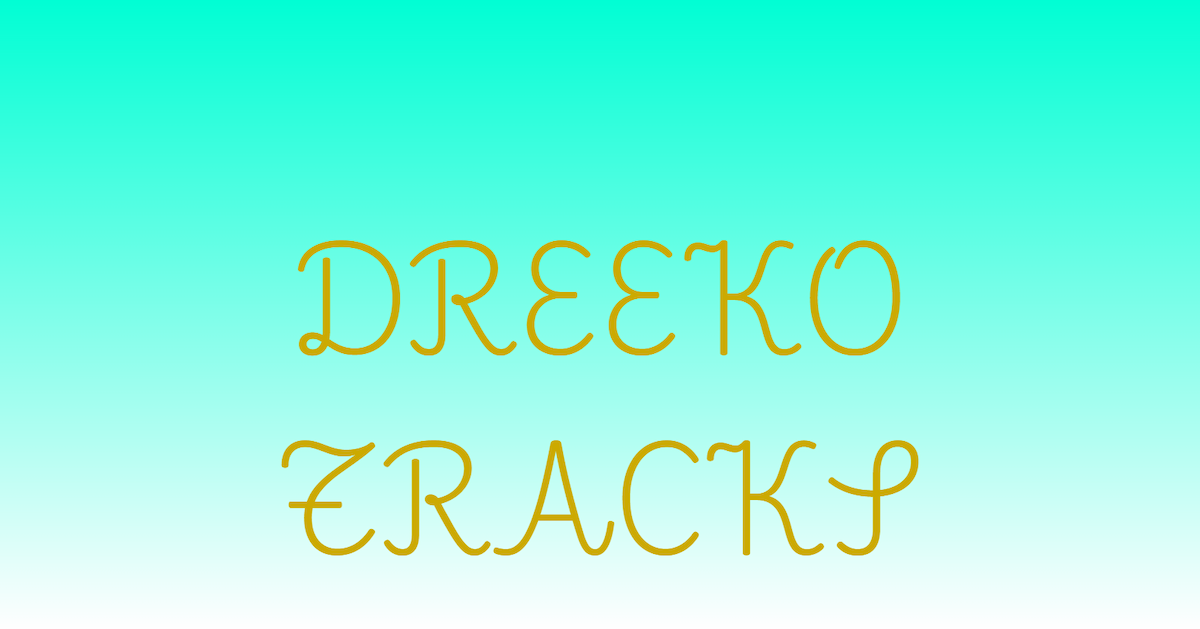
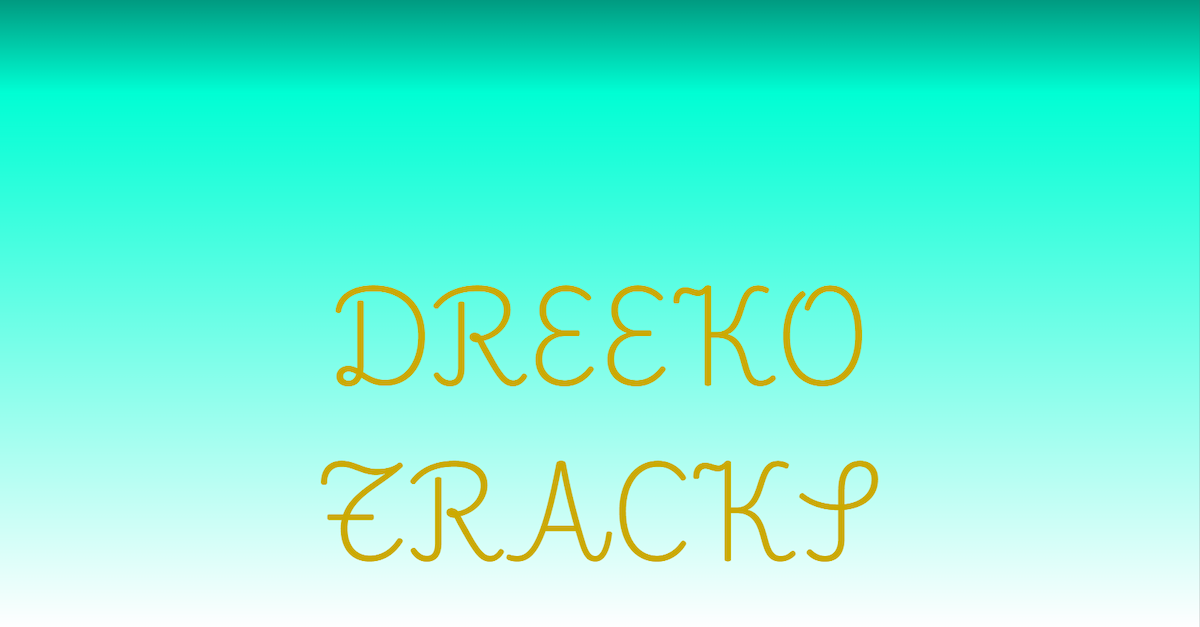
Adjust open graph image.

diff --git a/src/App.svelte b/src/App.svelte
@@ -15,7 +15,7 @@ main {
   position: relative;
 }
 #logo {
-  padding-top: 200px;
+  padding-top: 250px;
   border: 1px solid hsl(170, 100%, 0%);
   position: absolute;
   left: 0;
@@ -29,12 +29,13 @@ main {
   /* background-color: hsl(170, 100%, 50%); */
   background-image: linear-gradient(
     180deg,
-    hsl(170, 100%, 50%),
+    hsl(170, 100%, 30%) 0%,
+    hsl(170, 100%, 50%) 15%,
     hsl(170, 100%, 100%)
   );
   color: hsl(50, 100%, 40%);
   font-family: "Playwrite FR Trad", cursive;
-  font-size: 80px;
+  font-size: 70px;
   line-height: 2.5;
 }
 </style>
